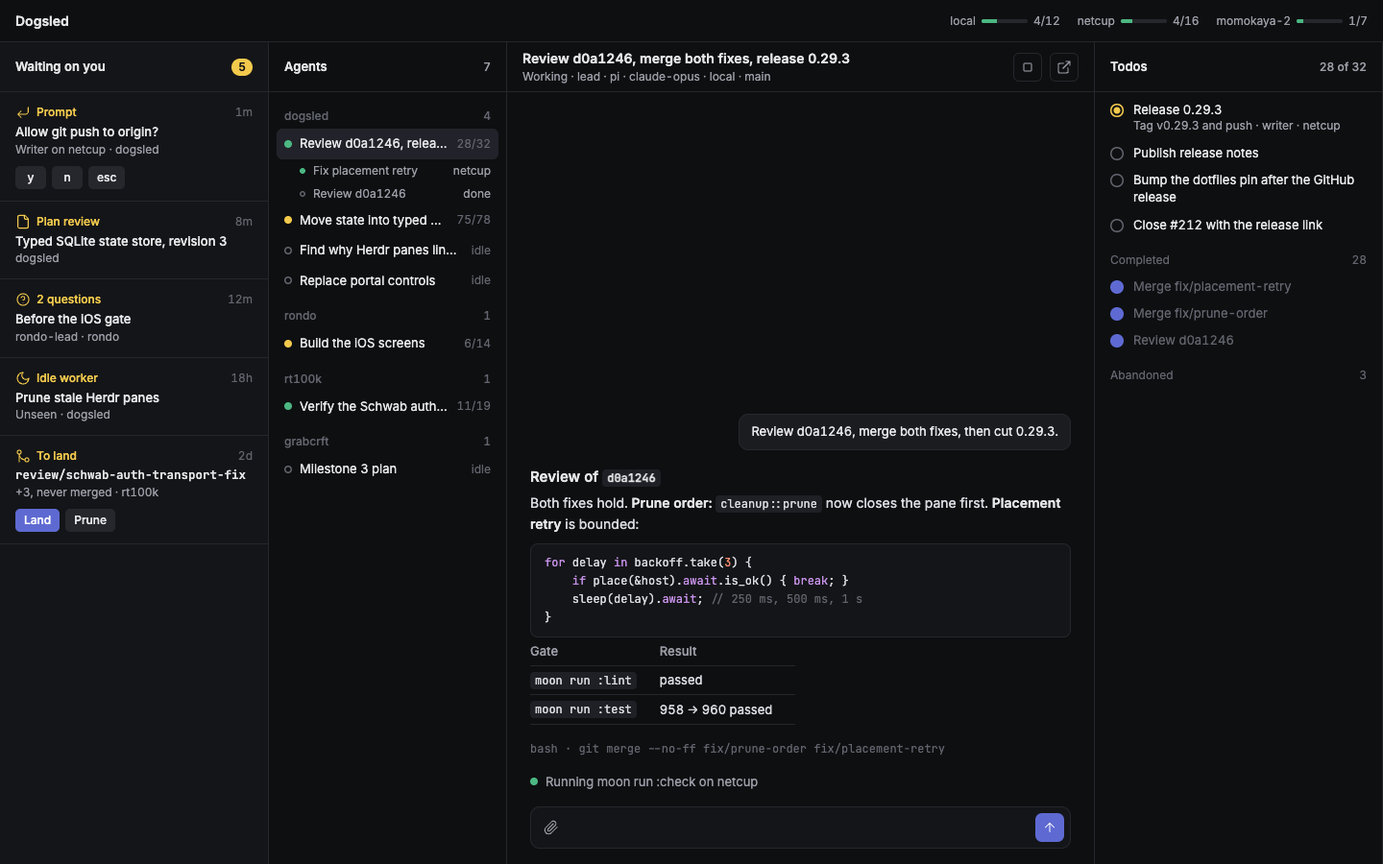
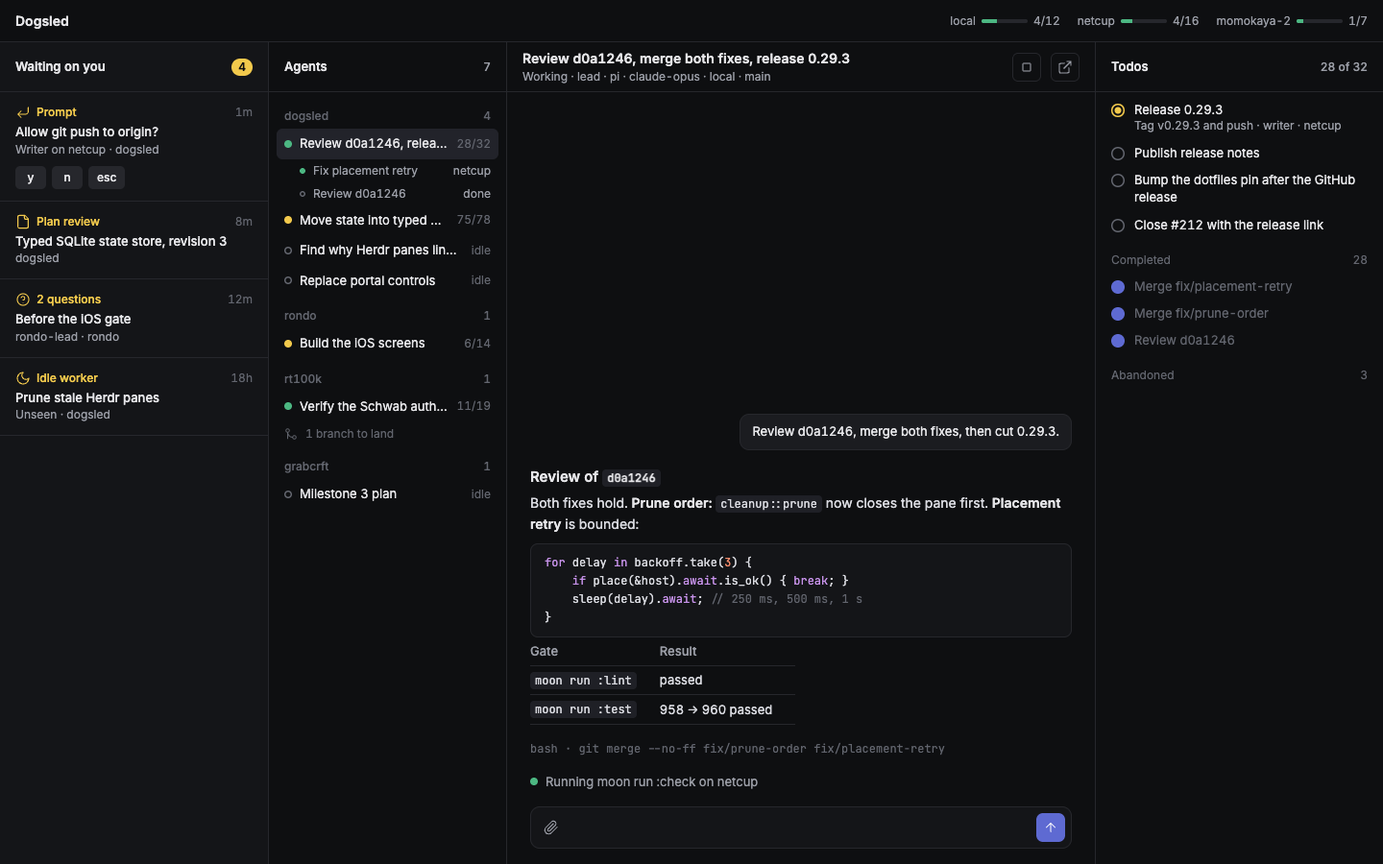
docs(portal): add tabbed layouts for smaller screens and keep branches out of the inbox

diff --git a/.impeccable/mocks/decision/v6-console.html b/.impeccable/mocks/decision/v6-console.html
@@ -1,26 +1,31 @@
 <!doctype html>
-<html lang="en"><head><meta charset="utf-8"><title>Dogsled · Console, two sidebars</title>
+<html lang="en"><head><meta charset="utf-8"><title>Dogsled · Console</title>
+<meta name="viewport" content="width=device-width">
 <link rel="preconnect" href="https://fonts.googleapis.com"><link rel="preconnect" href="https://fonts.gstatic.com" crossorigin>
 <link href="https://fonts.googleapis.com/css2?family=Inter:wght@400;500;600&family=JetBrains+Mono:wght@400;500&display=swap" rel="stylesheet">
 <style>
+/* Wide (>=1400px): inbox | agents | conversation | todos.
+   Medium (1100-1399px): todos fold into a tab beside the conversation.
+   Narrow (800-1099px): agents fold into a tab too. The inbox sidebar never folds. */
 :root{--bg:#0E0F11;--p1:#141518;--p2:#1B1C20;--line:#26272C;--fg:#E6E6E9;--fg2:#9A9DA6;--fg3:#62656E;--acc:#5E6AD2;--you:#F2C94C;--run:#4CB782}
 *{box-sizing:border-box;margin:0;padding:0}
-html,body{width:100vw;height:100vh;overflow:hidden}
-body{font:13px/1.5 Inter,system-ui,sans-serif;color:var(--fg);background:var(--bg);display:grid;grid-template:44px minmax(0,1fr)/280px 248px minmax(0,1fr) 300px;font-variant-numeric:tabular-nums}
+html,body{height:100vh;overflow:hidden}
+body{min-width:800px;font:13px/1.5 Inter,system-ui,sans-serif;color:var(--fg);background:var(--bg);font-variant-numeric:tabular-nums;
+ display:grid;grid-template-rows:44px 52px minmax(0,1fr) auto;grid-template-columns:280px 248px minmax(0,1fr) 300px}
 svg.i{width:16px;height:16px;fill:none;stroke:currentColor;stroke-width:1.7;stroke-linecap:round;stroke-linejoin:round;flex:none}
 button{font:inherit;color:inherit;border:0;background:none;cursor:pointer}
 code,pre,.mono{font-family:"JetBrains Mono",ui-monospace,monospace}
-header{grid-column:1/-1;display:flex;align-items:center;gap:16px;padding:0 16px;border-bottom:1px solid var(--line)}
+header{grid-column:1/-1;grid-row:1;display:flex;align-items:center;gap:16px;padding:0 16px;border-bottom:1px solid var(--line)}
 .mark{font-weight:600;font-size:14px}
-.hosts{margin-left:auto;display:flex;gap:18px;font-size:12px;color:var(--fg2);align-items:center}
+.hosts{margin-left:auto;display:flex;gap:18px;font-size:12px;color:var(--fg2);align-items:center;white-space:nowrap}
 .bar{display:inline-block;width:48px;height:4px;border-radius:2px;background:var(--line);margin:0 6px;vertical-align:middle;overflow:hidden}.bar i{display:block;height:100%;background:var(--run)}
-.col{display:flex;flex-direction:column;min-height:0;min-width:0;border-right:1px solid var(--line)}
+.col{display:flex;flex-direction:column;min-height:0;min-width:0}
 .ch{flex:none;display:flex;align-items:center;gap:8px;height:52px;padding:0 16px;border-bottom:1px solid var(--line);font-weight:600}
 .ch .n{margin-left:auto;font-size:12px;font-weight:500;color:var(--fg2)}
-.ch .badge{margin-left:auto;font-size:12px;font-weight:600;line-height:18px;padding:0 7px;border-radius:9px;background:var(--you);color:var(--bg)}
+.badge{margin-left:auto;font-size:12px;font-weight:600;line-height:18px;padding:0 7px;border-radius:9px;background:var(--you);color:var(--bg)}
 .scroll{flex:1;min-height:0;overflow:auto}
-/* inbox */
-.inbox{background:var(--p1)}
+/* inbox sidebar */
+.inbox{grid-column:1;grid-row:2/5;background:var(--p1);border-right:1px solid var(--line)}
 .it{display:block;padding:12px 16px;border-bottom:1px solid var(--line);cursor:pointer}
 .it:hover{background:var(--p2)}
 .it .k{display:flex;align-items:center;gap:6px;font-size:12px;font-weight:500;color:var(--you)}
@@ -29,8 +34,8 @@ header{grid-column:1/-1;display:flex;align-items:center;gap:16px;padding:0 16px;
 .it .m{font-size:12px;color:var(--fg2)}
 .btns{display:flex;gap:6px;margin-top:8px}
 .btns button{height:24px;min-width:32px;padding:0 9px;border-radius:5px;background:#26272C;font-size:12px;font-weight:500}
-.btns .p{background:var(--acc);color:#fff}
-/* agents */
+/* agents sidebar */
+.agents{grid-column:2;grid-row:2/5;border-right:1px solid var(--line)}
 .agents .scroll{padding:4px 8px 8px}
 .rp{display:flex;justify-content:space-between;padding:12px 8px 4px;font-size:12px;font-weight:500;color:var(--fg3)}
 .ld{display:flex;align-items:center;gap:8px;padding:6px 8px;border-radius:6px;cursor:pointer}
@@ -39,12 +44,18 @@ header{grid-column:1/-1;display:flex;align-items:center;gap:16px;padding:0 16px;
 .st{width:8px;height:8px;border-radius:50%;box-shadow:inset 0 0 0 1.5px var(--fg3);flex:none}.st.run{background:var(--run);box-shadow:none}.st.you{background:var(--you);box-shadow:none}
 .wk{display:flex;gap:8px;align-items:center;padding:3px 8px 3px 24px;font-size:12px;color:var(--fg2)}.wk span{flex:1;min-width:0;white-space:nowrap;overflow:hidden;text-overflow:ellipsis}
 .wk .st{width:6px;height:6px}
-/* conversation */
-.main .ch{font-weight:400}
-.main .ch>div{flex:1;min-width:0}
+.land{display:flex;gap:8px;align-items:center;padding:4px 8px;font-size:12px;color:var(--fg3)}.land svg.i{width:14px;height:14px}
+/* conversation: header, messages and composer sit directly in the page grid */
+.main{display:contents}
+.main>.ch{grid-column:3;grid-row:2;font-weight:400;gap:10px}
+.main>.ch>div:first-child{flex:1;min-width:0}
 .main h1{font-size:14px;font-weight:600;white-space:nowrap;overflow:hidden;text-overflow:ellipsis}.main .ch p{font-size:12px;color:var(--fg2);white-space:nowrap;overflow:hidden;text-overflow:ellipsis}
 .ib{display:grid;place-items:center;width:30px;height:30px;border-radius:6px;color:var(--fg2);border:1px solid var(--line);flex:none}
-.msgs{flex:1;min-height:0;overflow:auto;display:flex;flex-direction:column;gap:16px;padding:16px 0}
+.seg{display:none;flex:none;padding:2px;border-radius:7px;background:var(--p1);border:1px solid var(--line)}
+.seg button{display:flex;align-items:center;gap:6px;height:24px;padding:0 10px;border-radius:5px;font-size:12px;font-weight:500;color:var(--fg2)}
+.seg button[aria-selected=true]{background:#26272C;color:var(--fg)}
+.seg small{font-size:11px;color:var(--fg3)}
+.msgs{grid-column:3;grid-row:3;min-height:0;overflow:auto;display:flex;flex-direction:column;gap:16px;padding:16px 0}
 .msgs>:first-child{margin-top:auto}
 .msgs>*{width:min(640px,calc(100% - 48px));margin-left:auto;margin-right:auto}
 .me{align-self:flex-end;width:auto!important;max-width:min(440px,80%);margin-right:24px!important;background:var(--p2);border:1px solid var(--line);border-radius:10px;padding:8px 12px}
@@ -56,18 +67,38 @@ header{grid-column:1/-1;display:flex;align-items:center;gap:16px;padding:0 16px;
 .md table{border-collapse:collapse;font-size:13px}.md th{text-align:left;color:var(--fg2);font-weight:500}.md td,.md th{padding:4px 24px 4px 0;border-bottom:1px solid var(--line)}
 .tool{font-size:12px;color:var(--fg3);white-space:nowrap;overflow:hidden;text-overflow:ellipsis}
 .live{display:flex;align-items:center;gap:8px;color:var(--fg2)}
-.composer{flex:none;display:flex;align-items:flex-end;gap:6px;margin:0 24px 16px;padding:6px;border-radius:10px;background:var(--p1);border:1px solid var(--line)}
+.composer{grid-column:3;grid-row:4;display:flex;align-items:flex-end;gap:6px;margin:0 24px 16px;padding:6px;border-radius:10px;background:var(--p1);border:1px solid var(--line)}
 .composer textarea{flex:1;border:0;resize:none;font:inherit;font-size:14px;color:var(--fg);background:none;height:30px;padding:5px 4px;outline:none;caret-color:var(--acc)}
 .send{display:grid;place-items:center;width:30px;height:30px;border-radius:7px;background:var(--acc);color:#fff}
 /* todos */
-aside{border-right:0}
+.todo-col{grid-column:4;grid-row:2/5;border-left:1px solid var(--line)}
 .todos{padding:4px 16px 12px}
 .sec{display:flex;justify-content:space-between;font-size:12px;color:var(--fg3);margin:14px 0 4px}
 .td{display:flex;gap:10px;padding:5px 0;line-height:1.4}
 .cb{width:14px;height:14px;border-radius:50%;box-shadow:inset 0 0 0 1.5px var(--fg3);flex:none;margin-top:3px}
 .td.now .cb{box-shadow:inset 0 0 0 1.5px var(--you),inset 0 0 0 3.5px var(--bg);background:var(--you)}
 .td.done{color:var(--fg3)}.td.done .cb{background:var(--acc);box-shadow:none}
-</style></head><body>
+
+@media (max-width:1399px){
+ body{grid-template-columns:280px 248px minmax(0,1fr)}
+ .seg{display:flex}.seg .t-agents{display:none}
+ .todo-col{grid-column:3;grid-row:3;border-left:0}
+ .todo-col>.ch{display:none}
+ .todos{max-width:640px;width:100%;margin:0 auto;padding:12px 24px}
+ body:not([data-tab=todos]) .todo-col{display:none}
+ body[data-tab=todos] .msgs{display:none}
+}
+@media (max-width:1099px){
+ body{grid-template-columns:280px minmax(0,1fr)}
+ .seg .t-agents{display:flex}
+ .agents{grid-column:2;grid-row:3/5;border-right:0}
+ .agents>.ch{display:none}
+ .agents .scroll{padding:4px 16px 8px}
+ body:not([data-tab=agents]) .agents{display:none}
+ body[data-tab=agents] .msgs,body[data-tab=agents] .composer{display:none}
+ .main>.ch,.msgs,.composer,.todo-col{grid-column:2}
+}
+</style></head><body data-tab="chat">
 <svg width="0" height="0" style="position:absolute"><defs>
 <symbol id="doc" viewBox="0 0 24 24"><path d="M15 2H6a2 2 0 0 0-2 2v16a2 2 0 0 0 2 2h12a2 2 0 0 0 2-2V7Z"/><path d="M14 2v4a2 2 0 0 0 2 2h4"/></symbol>
 <symbol id="ask" viewBox="0 0 24 24"><circle cx="12" cy="12" r="9"/><path d="M9.1 9a3 3 0 0 1 5.8 1c0 2-3 3-3 3M12 17h.01"/></symbol>
@@ -83,17 +114,16 @@ aside{border-right:0}
  <div class="hosts"><span>local<span class="bar"><i style="width:33%"></i></span>4/12</span><span>netcup<span class="bar"><i style="width:25%"></i></span>4/16</span><span>momokaya-2<span class="bar"><i style="width:14%"></i></span>1/7</span></div></header>
 
 <section class="col inbox" aria-label="Waiting on you">
- <div class="ch">Waiting on you<span class="badge">5</span></div>
+ <div class="ch">Waiting on you<span class="badge">4</span></div>
  <div class="scroll">
   <div class="it"><p class="k"><svg class="i"><use href="#key"/></svg>Prompt<time>1m</time></p><p class="t">Allow git push to origin?</p><p class="m">Writer on netcup · dogsled</p><div class="btns"><button>y</button><button>n</button><button>esc</button></div></div>
   <div class="it"><p class="k"><svg class="i"><use href="#doc"/></svg>Plan review<time>8m</time></p><p class="t">Typed SQLite state store, revision 3</p><p class="m">dogsled</p></div>
   <div class="it"><p class="k"><svg class="i"><use href="#ask"/></svg>2 questions<time>12m</time></p><p class="t">Before the iOS gate</p><p class="m">rondo-lead · rondo</p></div>
   <div class="it"><p class="k"><svg class="i"><use href="#moon"/></svg>Idle worker<time>18h</time></p><p class="t">Prune stale Herdr panes</p><p class="m">Unseen · dogsled</p></div>
-  <div class="it"><p class="k"><svg class="i"><use href="#merge"/></svg>To land<time>2d</time></p><p class="t mono" style="font-size:12.5px">review/schwab-auth-transport-fix</p><p class="m">+3, never merged · rt100k</p><div class="btns"><button class="p">Land</button><button>Prune</button></div></div>
  </div>
 </section>
 
-<nav class="col agents" aria-label="Agents">
+<nav class="col agents" aria-label="Agents" id="tab-agents" role="tabpanel">
  <div class="ch">Agents<span class="n">7</span></div>
  <div class="scroll">
   <p class="rp"><span>dogsled</span><span>4</span></p>
@@ -107,14 +137,17 @@ aside{border-right:0}
   <div class="ld"><i class="st you"></i><span>Build the iOS screens</span><small>6/14</small></div>
   <p class="rp"><span>rt100k</span><span>1</span></p>
   <div class="ld"><i class="st run"></i><span>Verify the Schwab auth fixtures</span><small>11/19</small></div>
+  <p class="land"><svg class="i"><use href="#merge"/></svg>1 branch to land</p>
   <p class="rp"><span>grabcrft</span><span>1</span></p>
   <div class="ld"><i class="st"></i><span>Milestone 3 plan</span><small>idle</small></div>
  </div>
 </nav>
 
-<section class="col main" aria-label="Conversation">
- <div class="ch"><div><h1>Review d0a1246, merge both fixes, release 0.29.3</h1><p>Working · lead · pi · claude-opus · local · main</p></div><button class="ib" aria-label="Interrupt"><svg class="i"><use href="#stop"/></svg></button><button class="ib" aria-label="Open in Herdr"><svg class="i"><use href="#ext"/></svg></button></div>
- <div class="msgs">
+<section class="main" aria-label="Conversation">
+ <div class="ch"><div><h1>Review d0a1246, merge both fixes, release 0.29.3</h1><p>Working · lead · pi · claude-opus · local · main</p></div>
+  <div class="seg" role="tablist" aria-label="Lead view"><button role="tab" class="t-agents" data-t="agents" aria-controls="tab-agents">Agents<small>7</small></button><button role="tab" data-t="chat" aria-controls="tab-chat">Chat</button><button role="tab" data-t="todos" aria-controls="tab-todos">Todos<small>28/32</small></button></div>
+  <button class="ib" aria-label="Interrupt"><svg class="i"><use href="#stop"/></svg></button><button class="ib" aria-label="Open in Herdr"><svg class="i"><use href="#ext"/></svg></button></div>
+ <div class="msgs" id="tab-chat" role="tabpanel">
   <p class="me">Review d0a1246, merge both fixes, then cut 0.29.3.</p>
   <article class="md"><h3>Review of <code>d0a1246</code></h3><p>Both fixes hold. <strong>Prune order:</strong> <code>cleanup::prune</code> now closes the pane first. <strong>Placement retry</strong> is bounded:</p>
    <pre><code><span class="kw">for</span> delay <span class="kw">in</span> backoff.take(<span class="nu">3</span>) {
@@ -128,8 +161,8 @@ aside{border-right:0}
  <form class="composer"><button type="button" class="ib" style="border:0" aria-label="Attach image"><svg class="i"><use href="#clip"/></svg></button><textarea aria-label="Message this agent"></textarea><button class="send" aria-label="Send"><svg class="i"><use href="#up"/></svg></button></form>
 </section>
 
-<aside class="col" aria-label="Todos"><div class="ch">Todos<span class="n">28 of 32</span></div>
- <div class="scroll todos">
+<aside class="col todo-col" aria-label="Todos" id="tab-todos" role="tabpanel"><div class="ch">Todos<span class="n">28 of 32</span></div>
+ <div class="scroll"><div class="todos">
   <div class="td now"><i class="cb"></i><div>Release 0.29.3<p style="font-size:12px;color:var(--fg2)">Tag v0.29.3 and push · writer · netcup</p></div></div>
   <div class="td"><i class="cb"></i>Publish release notes</div>
   <div class="td"><i class="cb"></i>Bump the dotfiles pin after the GitHub release</div>
@@ -139,5 +172,11 @@ aside{border-right:0}
   <div class="td done"><i class="cb"></i>Merge fix/prune-order</div>
   <div class="td done"><i class="cb"></i>Review d0a1246</div>
   <p class="sec"><span>Abandoned</span><span>3</span></p>
- </div></aside>
+ </div></div></aside>
+<script>
+// Sketch only: ?tab=agents|chat|todos picks the open tab for screenshots.
+const tab = new URLSearchParams(location.search).get('tab') || 'chat';
+document.body.dataset.tab = tab;
+for (const b of document.querySelectorAll('.seg button')) b.setAttribute('aria-selected', String(b.dataset.t === tab));
+</script>
 </body></html>

diff --git a/.impeccable/mocks/decision/v6-console-review.html b/.impeccable/mocks/decision/v6-console-review.html
@@ -5,8 +5,8 @@
 <style>
 :root{--bg:#0E0F11;--p1:#141518;--p2:#1B1C20;--line:#26272C;--fg:#E6E6E9;--fg2:#9A9DA6;--fg3:#62656E;--acc:#5E6AD2;--you:#F2C94C;--run:#4CB782}
 *{box-sizing:border-box;margin:0;padding:0}
-html,body{width:100vw;height:100vh;overflow:hidden}
-body{font:13px/1.5 Inter,system-ui,sans-serif;color:var(--fg);background:var(--bg);display:grid;grid-template:44px minmax(0,1fr)/280px minmax(0,1fr);font-variant-numeric:tabular-nums}
+html,body{height:100vh;overflow:hidden}
+body{min-width:800px;font:13px/1.5 Inter,system-ui,sans-serif;color:var(--fg);background:var(--bg);display:grid;grid-template:44px minmax(0,1fr)/280px minmax(0,1fr);font-variant-numeric:tabular-nums}
 svg.i{width:16px;height:16px;fill:none;stroke:currentColor;stroke-width:1.7;stroke-linecap:round;stroke-linejoin:round;flex:none}
 button{font:inherit;color:inherit;border:0;background:none;cursor:pointer}
 code,.mono{font-family:"JetBrains Mono",ui-monospace,monospace}
@@ -33,7 +33,7 @@ header{grid-column:1/-1;display:flex;align-items:center;gap:16px;padding:0 16px;
 .rh{grid-column:1/-1;display:flex;align-items:center;gap:12px;padding:0 16px 0 24px;border-bottom:1px solid var(--line)}
 .rh>div:first-child{flex:1;min-width:0}.rh h1{font-size:14px;font-weight:600}.rh p{font-size:12px;color:var(--fg2)}
 .seg{display:flex;padding:2px;border-radius:7px;background:var(--p1);border:1px solid var(--line)}
-.seg button{height:24px;padding:0 10px;border-radius:5px;font-size:12px;font-weight:500;color:var(--fg2)}.seg .on{background:#26272C;color:var(--fg)}
+.seg button{display:flex;align-items:center;gap:6px;height:24px;padding:0 10px;border-radius:5px;font-size:12px;font-weight:500;color:var(--fg2)}.seg button[aria-selected=true]{background:#26272C;color:var(--fg)}.seg small{font-size:11px;color:var(--fg3)}.seg .t-notes{display:none}
 .ib{display:grid;place-items:center;width:30px;height:30px;border-radius:6px;color:var(--fg2);border:1px solid var(--line);flex:none}
 .doc{overflow:auto;min-height:0;padding:28px 40px 40px}
 .prose{max-width:680px;margin:0 auto;font-size:14px;line-height:1.65;color:#D9DAE0}
@@ -52,13 +52,23 @@ header{grid-column:1/-1;display:flex;align-items:center;gap:16px;padding:0 16px;
 .decide{grid-column:1/-1;display:flex;align-items:flex-end;gap:8px;padding:12px 24px 16px;border-top:1px solid var(--line)}
 .decide textarea{flex:1;border:1px solid var(--line);border-radius:8px;background:var(--p1);resize:none;font:inherit;font-size:14px;color:var(--fg);height:40px;padding:9px 12px;outline:none}
 .decide .btn{height:40px;padding:0 16px;font-size:13px;border-radius:8px}
+/* Narrow (<1100px): the notes margin folds into a tab beside Plan and Changes. */
+@media (max-width:1099px){
+ .rv{grid-template-columns:minmax(0,1fr)}
+ .seg .t-notes{display:flex}
+ .doc{padding:24px 24px 32px}
+ .notes{grid-column:1;grid-row:2;border-left:0;padding:16px 24px}
+ .notes>*{max-width:680px;margin-left:auto;margin-right:auto}
+ .notes h3{display:none}
+ body:not([data-tab=notes]) .notes{display:none}
+ body[data-tab=notes] .doc{display:none}
+}
 </style></head><body>
 <svg width="0" height="0" style="position:absolute"><defs>
 <symbol id="doc" viewBox="0 0 24 24"><path d="M15 2H6a2 2 0 0 0-2 2v16a2 2 0 0 0 2 2h12a2 2 0 0 0 2-2V7Z"/><path d="M14 2v4a2 2 0 0 0 2 2h4"/></symbol>
 <symbol id="ask" viewBox="0 0 24 24"><circle cx="12" cy="12" r="9"/><path d="M9.1 9a3 3 0 0 1 5.8 1c0 2-3 3-3 3M12 17h.01"/></symbol>
 <symbol id="key" viewBox="0 0 24 24"><path d="M9 10l-5 5 5 5"/><path d="M20 4v7a4 4 0 0 1-4 4H4"/></symbol>
 <symbol id="moon" viewBox="0 0 24 24"><path d="M12 3a6 6 0 0 0 9 9 9 9 0 1 1-9-9Z"/></symbol>
-<symbol id="merge" viewBox="0 0 24 24"><circle cx="18" cy="18" r="3"/><circle cx="6" cy="6" r="3"/><path d="M6 21V9a9 9 0 0 0 9 9"/></symbol>
 <symbol id="x" viewBox="0 0 24 24"><path d="M18 6 6 18M6 6l12 12"/></symbol>
 <symbol id="pen" viewBox="0 0 24 24"><path d="M12 20h9"/><path d="M16.4 3.6a2.1 2.1 0 0 1 3 3L7 19l-4 1 1-4Z"/></symbol>
 <symbol id="trash" viewBox="0 0 24 24"><path d="M3 6h18M8 6V4h8v2M19 6l-1 14H6L5 6"/></symbol>
@@ -67,19 +77,18 @@ header{grid-column:1/-1;display:flex;align-items:center;gap:16px;padding:0 16px;
  <div class="hosts"><span>local<span class="bar"><i style="width:33%"></i></span>4/12</span><span>netcup<span class="bar"><i style="width:25%"></i></span>4/16</span><span>momokaya-2<span class="bar"><i style="width:14%"></i></span>1/7</span></div></header>
 
 <section class="col inbox" aria-label="Waiting on you">
- <div class="ch">Waiting on you<span class="badge">5</span></div>
+ <div class="ch">Waiting on you<span class="badge">4</span></div>
  <div class="scroll">
   <div class="it"><p class="k"><svg class="i"><use href="#key"/></svg>Prompt<time>1m</time></p><p class="t">Allow git push to origin?</p><p class="m">Writer on netcup · dogsled</p><div class="btns"><button>y</button><button>n</button><button>esc</button></div></div>
   <div class="it sel" aria-current="true"><p class="k"><svg class="i"><use href="#doc"/></svg>Plan review<time>8m</time></p><p class="t">Typed SQLite state store, revision 3</p><p class="m">dogsled</p></div>
   <div class="it"><p class="k"><svg class="i"><use href="#ask"/></svg>2 questions<time>12m</time></p><p class="t">Before the iOS gate</p><p class="m">rondo-lead · rondo</p></div>
   <div class="it"><p class="k"><svg class="i"><use href="#moon"/></svg>Idle worker<time>18h</time></p><p class="t">Prune stale Herdr panes</p><p class="m">Unseen · dogsled</p></div>
-  <div class="it"><p class="k"><svg class="i"><use href="#merge"/></svg>To land<time>2d</time></p><p class="t mono" style="font-size:12.5px">review/schwab-auth-transport-fix</p><p class="m">+3, never merged · rt100k</p><div class="btns"><button class="p">Land</button><button>Prune</button></div></div>
  </div>
 </section>
 
 <section class="rv" aria-label="Plan review">
  <div class="rh"><div><h1>Typed SQLite state store</h1><p>Revision 3 · Move state into typed SQLite · lead · dogsled</p></div>
-  <div class="seg" role="tablist"><button class="on" role="tab" aria-selected="true">Plan</button><button role="tab">Changes since revision 2</button></div>
+  <div class="seg" role="tablist" aria-label="Review view"><button role="tab" data-t="plan">Plan</button><button role="tab" data-t="changes">Changes</button><button role="tab" class="t-notes" data-t="notes">Notes<small>2</small></button></div>
   <button class="ib" aria-label="Close review"><svg class="i"><use href="#x"/></svg></button></div>
  <div class="doc"><article class="prose">
   <h2>Typed SQLite state store</h2>
@@ -101,4 +110,10 @@ header{grid-column:1/-1;display:flex;align-items:center;gap:16px;padding:0 16px;
  </aside>
  <form class="decide"><textarea aria-label="Note for the whole plan"></textarea><button type="button" class="btn">Request changes</button><button class="btn p">Approve plan</button></form>
 </section>
+<script>
+// Sketch only: ?tab=plan|changes|notes picks the open tab for screenshots.
+const tab = new URLSearchParams(location.search).get('tab') || 'plan';
+document.body.dataset.tab = tab;
+for (const b of document.querySelectorAll('.seg button')) b.setAttribute('aria-selected', String(b.dataset.t === tab));
+</script>
 </body></html>

diff --git a/plans/portal-redesign.md b/plans/portal-redesign.md
@@ -3,8 +3,13 @@
 Status: direction chosen by the owner on 2026-11-02. Implementation is not approved yet.
 This revision replaces the 2026-10-27 layout (top bar, 288px navigation, Inbox popover, tabbed agent screen).
 Product context: `PRODUCT.md`. Surface brief and direction contract: `.impeccable/surfaces/web.md`.
-Sketches: `.impeccable/mocks/decision/v6-console.html` (main screen) and `v6-console-review.html` (plan review open), each with 1440×900 and 1280×800 screenshots (`v6-console*.png`).
-The owner chose the dark console card (`v5-canon.html`), then moved the inbox from a top strip into a second left sidebar, as in the Pull Request card, and set the plan review to cover everything except the inbox sidebar.
+Sketches: `.impeccable/mocks/decision/v6-console.html` (main screen) and `v6-console-review.html` (plan review open). `?tab=` in the sketch URL picks the open tab.
+Screenshots: `v6-console.png` (wide, 1440×900), `v6-console-medium*.png` (1280×800), `v6-console-narrow*.png` (1024×768), `v6-console-review.png` and `v6-console-review-narrow*.png`.
+The owner chose the dark console card (`v5-canon.html`), then on 2026-11-02:
+- moved the inbox from a top strip into a second left sidebar, as in the Pull Request card;
+- set the plan review to cover everything except the inbox sidebar;
+- kept branches to land out of the inbox, because agents land their own branches;
+- asked for a tabbed layout on smaller screens.
 Other sketches from the round stay in `.impeccable/mocks/decision/` (`v4-*`, `v5-*`). They carry no approval.
 
 ## Why
@@ -28,20 +33,37 @@ The running portal (`127.0.0.1:7465`, screenshot from the owner on 2026-11-02) h
 The category standard, played straight: a dark agent console at the craft level of Linear, Cursor and Conductor.
 Palette, type and the full contract are in `.impeccable/surfaces/web.md`.
 
-## Layout (1440×900 first, works from 1280×800)
+## Layout
 
 The screen is one fixed grid. The document never scrolls. Each region scrolls inside itself.
+The wide layout (1400px and wider, designed at 1440×900) is described here. Smaller screens fold columns into tabs; see Smaller screens.
 Below the top bar are four columns. Each column starts with a 52px header row, and the rows line up across the screen.
 
 1. **Top bar, 44px.** `Dogsled` and the host load of `local`, `netcup`, `momokaya-2` (bar and `busy/cores`). A stream outage shows "Live updates paused, retrying" here.
-2. **Inbox sidebar, 280px, far left, raised panel.** "Waiting on you" with a yellow count. One row per item: kind icon, kind, age, title, `agent · repository`, and inline actions (key buttons for a prompt, `Land` and `Prune` for a branch). The list scrolls vertically; the header and count stay. Selecting a row opens its agent with the item in front, and the open row gets a yellow left edge.
-3. **Agents sidebar, 248px.** Repository, then each lead (status dot, title, todo progress), then its workers indented and muted. A worker is raised only when the owner must act.
-4. **Conversation, centre (about 610px at 1440, 450px at 1280).** Header: title, state, `role · harness · model · host · branch`, and icon buttons for Interrupt and Open in Herdr. Messages sit newest at the bottom at a 640px maximum measure: owner messages as right-aligned bubbles, agent turns as rendered Markdown, tool calls as one mono line each, and a live status line. The composer is pinned below.
+2. **Inbox sidebar, 280px, far left, raised panel.** "Waiting on you" with a yellow count. One row per item: kind icon, kind, age, title, `agent · repository`, and inline actions (key buttons for a prompt). The list scrolls vertically; the header and count stay. Selecting a row opens its agent with the item in front, and the open row gets a yellow left edge.
+3. **Agents sidebar, 248px.** Repository, then each lead (status dot, title, todo progress), then its workers indented and muted. A worker is raised only when the owner must act. A repository with closed branches not yet landed shows a muted line such as "1 branch to land" (the existing per-repository count in `web/src/board.rs`).
+4. **Conversation, centre (about 610px at 1440).** Header: title, state, `role · harness · model · host · branch`, and icon buttons for Interrupt and Open in Herdr. Messages sit newest at the bottom at a 640px maximum measure: owner messages as right-aligned bubbles, agent turns as rendered Markdown, tool calls as one mono line each, and a live status line. The composer is pinned below.
 5. **Todos, 300px, right.** The selected lead's todos: in progress (with its worker), pending, completed (latest first, count), abandoned (count).
+
+### Smaller screens
+
+The inbox sidebar never folds. Other columns fold into tabs as the window narrows, so the conversation keeps at least about 570px.
+The tabs are one segmented control in the conversation header, built on the official Dioxus `Tabs` component.
+
+| Width | Columns | Tabs in the header |
+|---|---|---|
+| 1400px and wider | inbox, agents, conversation, todos | none |
+| 1100 to 1399px | inbox, agents, one lead panel | `Chat`, `Todos 28/32` |
+| 800 to 1099px | inbox, one panel | `Agents 7`, `Chat`, `Todos 28/32` |
+
+- The header always shows the selected lead (title, state and meta, Interrupt, Open in Herdr). The title truncates before the tabs or icons do.
+- The composer stays pinned under `Chat` and `Todos`. It is hidden under `Agents`.
+- Selecting a lead in the `Agents` tab opens `Chat`. Selecting an inbox row opens its agent in `Chat`, or its pending item.
+- Under 800px the page scrolls sideways. Phones are deferred (`PRODUCT.md`).
 
 ### Pending items
 
-- **Plan review.** Opens over the agents, conversation and todos columns. Only the top bar and the inbox sidebar stay visible. The review has a header (title, revision, lead, `Plan` / `Changes since revision N`, and a close icon), the plan at a 680px measure, a 300px notes margin, and a decision bar pinned at the bottom (note for the whole plan, `Request changes`, `Approve plan`). Closing it, deciding, or selecting another inbox row returns to the main screen.
+- **Plan review.** Opens over the agents, conversation and todos columns. Only the top bar and the inbox sidebar stay visible. The review has a header (title, revision, lead, `Plan` / `Changes` tabs, and a close icon), the plan at a 680px measure, a 300px notes margin, and a decision bar pinned at the bottom (note for the whole plan, `Request changes`, `Approve plan`). Closing it, deciding, or selecting another inbox row returns to the main screen. Below 1100px the notes margin folds into a third tab, `Notes 2`.
 - **Questions and key prompts.** They replace the conversation in the centre column while they wait, in that order after a plan review.
 
 ## States
@@ -53,7 +75,7 @@ Below the top bar are four columns. Each column starts with a 52px header row, a
 ## Data
 
 The client already has what this layout needs: `GET /api/inbox` (`portal-types/src/inbox.rs`), `GET /api/agents` with `repository`, and board rows with `owner_pane`, `title`, `cleanup` and `unseen` plus todos keyed by pane (`portal-types/src/lib.rs`).
-One gap: `InboxKind` has `review`, `question`, `prompt` and `unseen_worker`, but no `to_land`. The sketch shows a branch to land in the inbox. Decide whether `to_land` rows join the inbox (server change) or stay in the agents list.
+No server change is needed. Branches to land are not inbox items: agents land their own branches (owner, 2026-11-02). `InboxKind` stays `review`, `question`, `prompt` and `unseen_worker`.
 
 ## Markdown
 
@@ -68,23 +90,23 @@ Keep the official Dioxus components from `plans/dioxus-components.md`. Restyle t
 
 ## Units (draft, for approval)
 
-1. **Wireframe.** Save the layout as a Squig canvas at `plans/portal-redesign.squig.json` (desktop 1440×900 and 1280×800, with the empty-inbox and plan-review states).
-2. **Shell.** Diagnose why the served portal scrolls and ignores `main.css`, then build the fixed grid, tokens, top bar, inbox sidebar and agents sidebar (`web/src/app.rs`, `web/src/board.rs`, `web/assets/main.css`).
+1. **Wireframe.** Save the layout as a Squig canvas at `plans/portal-redesign.squig.json` (wide 1440×900, medium 1280×800 and narrow 1024×768, with the empty-inbox and plan-review states).
+2. **Shell.** Diagnose why the served portal scrolls and ignores `main.css`, then build the fixed grid with its three widths, tokens, top bar, inbox sidebar, agents sidebar and the header tabs (`web/src/app.rs`, `web/src/board.rs`, `web/assets/main.css`).
 3. **Conversation.** Markdown options and styles, message layout, tool lines, status line and the icon-only composer (`web/src/agent_view.rs`, `web/src/review_view.rs` `render_markdown`, `web/assets/agent_view.css`).
-4. **Todos column.** Move todos out of the tab into the right column.
-5. **Pending items.** The plan review over everything right of the inbox sidebar, and questions and key prompts in the centre column (`web/src/review_view.rs`, `web/src/question_form.rs`).
+4. **Todos column.** Move todos out of the old tab into the right column, and into the `Todos` tab below 1400px.
+5. **Pending items.** The plan review over everything right of the inbox sidebar (with the `Notes` tab below 1100px), and questions and key prompts in the centre column (`web/src/review_view.rs`, `web/src/question_form.rs`).
 6. **Finish.** `impeccable detect --json web/`, the finish review against the sketch, and `DESIGN.md`.
 
 Units 2 to 5 depend on 1. Unit 3 depends on the highlighting research.
 
 ## Open decisions
 
-- **Branches to land in the inbox.** See Data.
-- **Narrow conversation at 1280.** With both sidebars and the todos column, the conversation is about 450px wide at 1280×800. Code blocks scroll sideways inside themselves. Decide whether that is acceptable or the todos column narrows below 1440.
+None. The code-highlighting library is research inside unit 3.
 
 ## Verification
 
-- At 1440×900 and 1280×800, `document.scrollingElement.scrollHeight` equals the viewport height, and the top bar and composer stay in place while the conversation scrolls.
+- At 1440×900, 1280×800 and 1024×768, `document.scrollingElement.scrollHeight` equals the viewport height, and the top bar and composer stay in place while the conversation scrolls.
+- At each width the inbox sidebar shows every item. At 1280 the `Chat` and `Todos` tabs switch the lead panel; at 1024 the `Agents` tab also shows the agents list, and selecting a lead there opens `Chat`.
 - With twenty inbox items, the inbox header and count stay in place, each row is reachable by scrolling the sidebar, and each row opens its agent.
 - With a plan review open, the inbox sidebar stays visible and usable, and no part of the agents, conversation or todos columns shows.
 - A Markdown fixture with a heading, list, inline code, fenced code and a table renders each element.

diff --git a/.impeccable/surfaces/web.md b/.impeccable/surfaces/web.md
@@ -7,7 +7,7 @@ related_targets: []
 
 # Portal main screen
 
-Mode: Operate. Surface: the `dogsled web` main screen at 1280×800 and up (designed at 1440×900), on a desktop monitor beside Herdr.
+Mode: Operate. Surface: the `dogsled web` main screen from 800px wide (designed at 1440×900), on a desktop monitor beside Herdr. Phones are deferred.
 
 ## Brief
 
@@ -21,6 +21,8 @@ Mode: Operate. Surface: the `dogsled web` main screen at 1280×800 and up (desig
 - The palette is not pinned to Herdr's theme (owner, 2026-11-02).
 - Layout steer (owner, 2026-11-02): no inbox strip across the top. Inbox and agents are two left sidebars, as in the Pull Request sketch.
 - A plan review opens over everything right of the inbox sidebar (owner, 2026-11-02). The inbox stays visible and usable.
+- Branches to land are not inbox items; agents land them (owner, 2026-11-02). The agents list shows a muted per-repository count.
+- Smaller screens use tabs (owner, 2026-11-02). The inbox sidebar never folds.
 
 ## Direction contract
 
@@ -30,9 +32,9 @@ OWN-WORLD: Near-black ground #0E0F11 with two raised panels (#141518, #1B1C20) a
 
 STORY: The owner returns, reads the inbox sidebar first, clears an item in place (keys, Land, Prune) or opens its agent, then reads the lead's conversation and todo progress and sends a message.
 
-FIRST VIEWPORT: 44px top bar (Dogsled, host load bars). Below it four columns, each with a 52px header row aligned across the screen: 280px inbox sidebar on the raised panel ("Waiting on you" and a yellow count; one row per item: kind icon, kind, age, title, agent · repository, inline actions), 248px agents sidebar (repository → lead → muted workers), conversation (title, state, role · harness · model · host · branch, icon actions; messages newest at bottom, 640px measure; composer pinned at the bottom with attach and send icons only), 300px todos column (in progress, pending, completed, abandoned). A plan review replaces the agents, conversation and todos columns: plan at a 680px measure, 300px notes margin, decision bar pinned at the bottom; the opened inbox row carries a yellow left edge.
+FIRST VIEWPORT: 44px top bar (Dogsled, host load bars). Below it four columns, each with a 52px header row aligned across the screen: 280px inbox sidebar on the raised panel ("Waiting on you" and a yellow count; one row per item: kind icon, kind, age, title, agent · repository, inline actions), 248px agents sidebar (repository → lead → muted workers), conversation (title, state, role · harness · model · host · branch, icon actions; messages newest at bottom, 640px measure; composer pinned at the bottom with attach and send icons only), 300px todos column (in progress, pending, completed, abandoned). A plan review replaces the agents, conversation and todos columns: plan at a 680px measure, 300px notes margin, decision bar pinned at the bottom; the opened inbox row carries a yellow left edge. Smaller screens: at 1100–1399px the todos fold into a segmented `Chat` / `Todos` control in the conversation header; at 800–1099px the agents fold in too (`Agents` / `Chat` / `Todos`), and the review's notes margin becomes a `Notes` tab.
 
-FORM: The category standard (standing exit, chosen on safer re-roll 1); bar: Linear, Cursor, Conductor. seed:e4107608a77f64a0. Sketches: `.impeccable/mocks/decision/v6-console.html` (main screen) and `v6-console-review.html` (plan review open). `v5-canon.html` is the card as chosen, before the layout steer.
+FORM: The category standard (standing exit, chosen on safer re-roll 1); bar: Linear, Cursor, Conductor. seed:e4107608a77f64a0. Sketches: `.impeccable/mocks/decision/v6-console.html` (main screen) and `v6-console-review.html` (plan review open); `?tab=` picks the open tab. `v5-canon.html` is the card as chosen, before the layout steer.
 
 FINISH: unreviewed and undocumented is unfinished; this build ends with the finish review, the verdict, DESIGN.md, and every shipping raster carrying its provenance
 

diff --git a/PRODUCT.md b/PRODUCT.md
@@ -21,7 +21,7 @@ Success: in one glance the owner sees what waits for them, acts on it in place, 
 The first screen serves five jobs:
 
 1. Answer what needs the owner: agent questions (`interview`), plan reviews (`submit_plan`), and blocked agents (key prompts).
-2. Land finished branches ("to land").
+2. See branches still to land. Agents land their own branches (owner, 2026-11-02), so these are not inbox items. The agents list shows a count per repository.
 3. Watch and steer running agents: read the conversation and send a message.
 4. Follow each lead's todo progress per repository.
 5. Check host capacity on `local`, `netcup` and `momokaya-2`.
